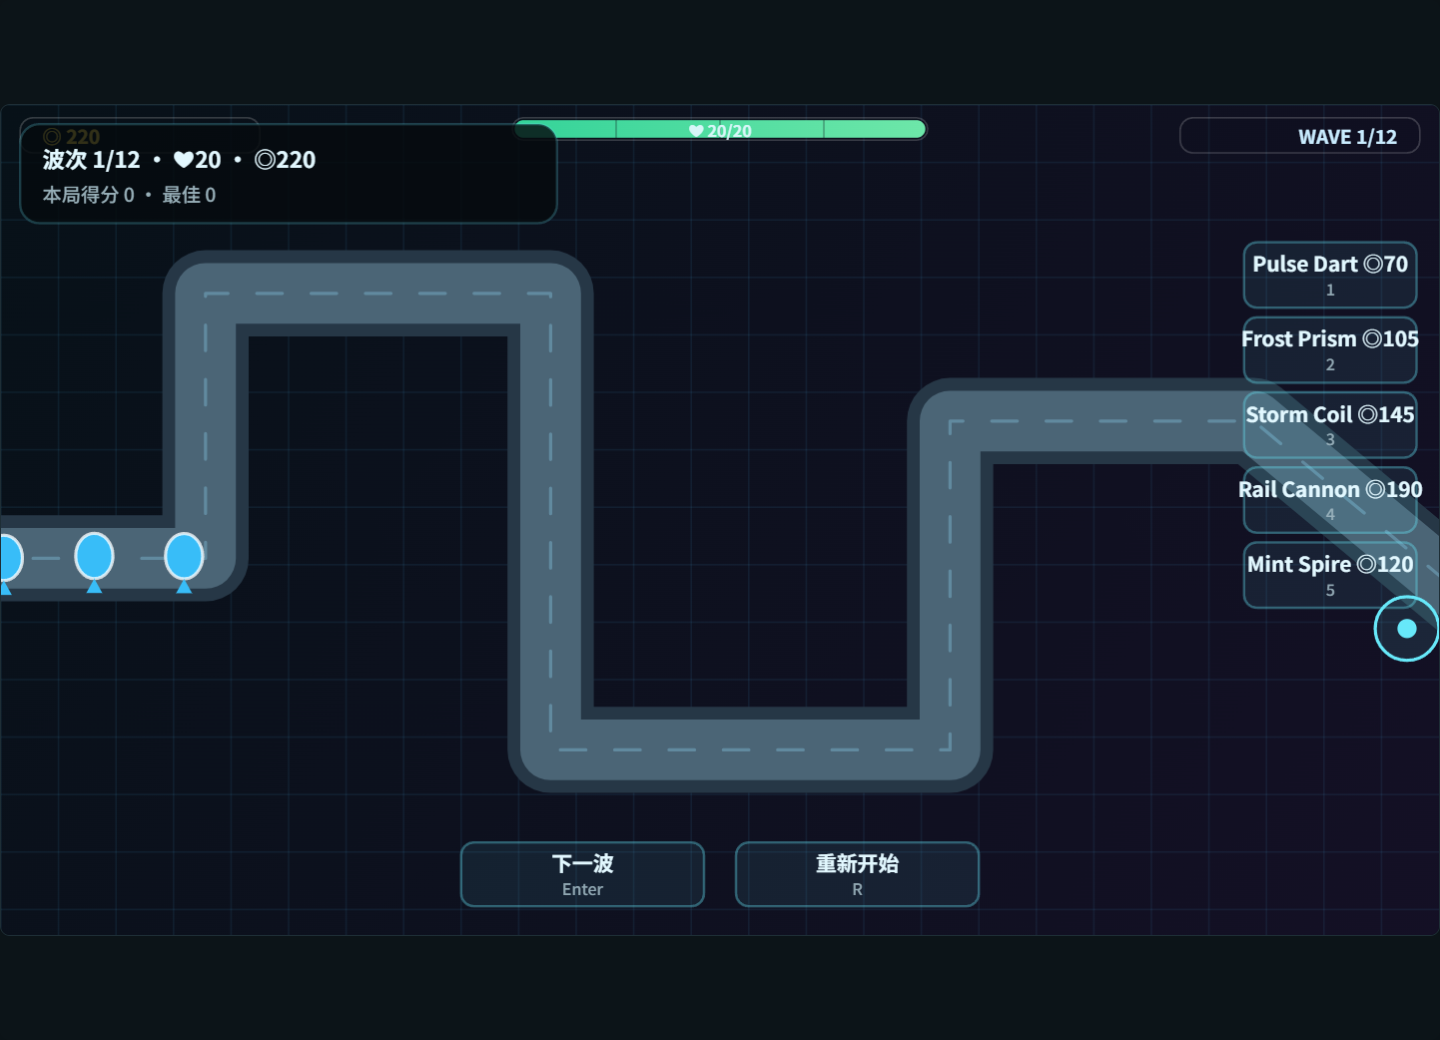
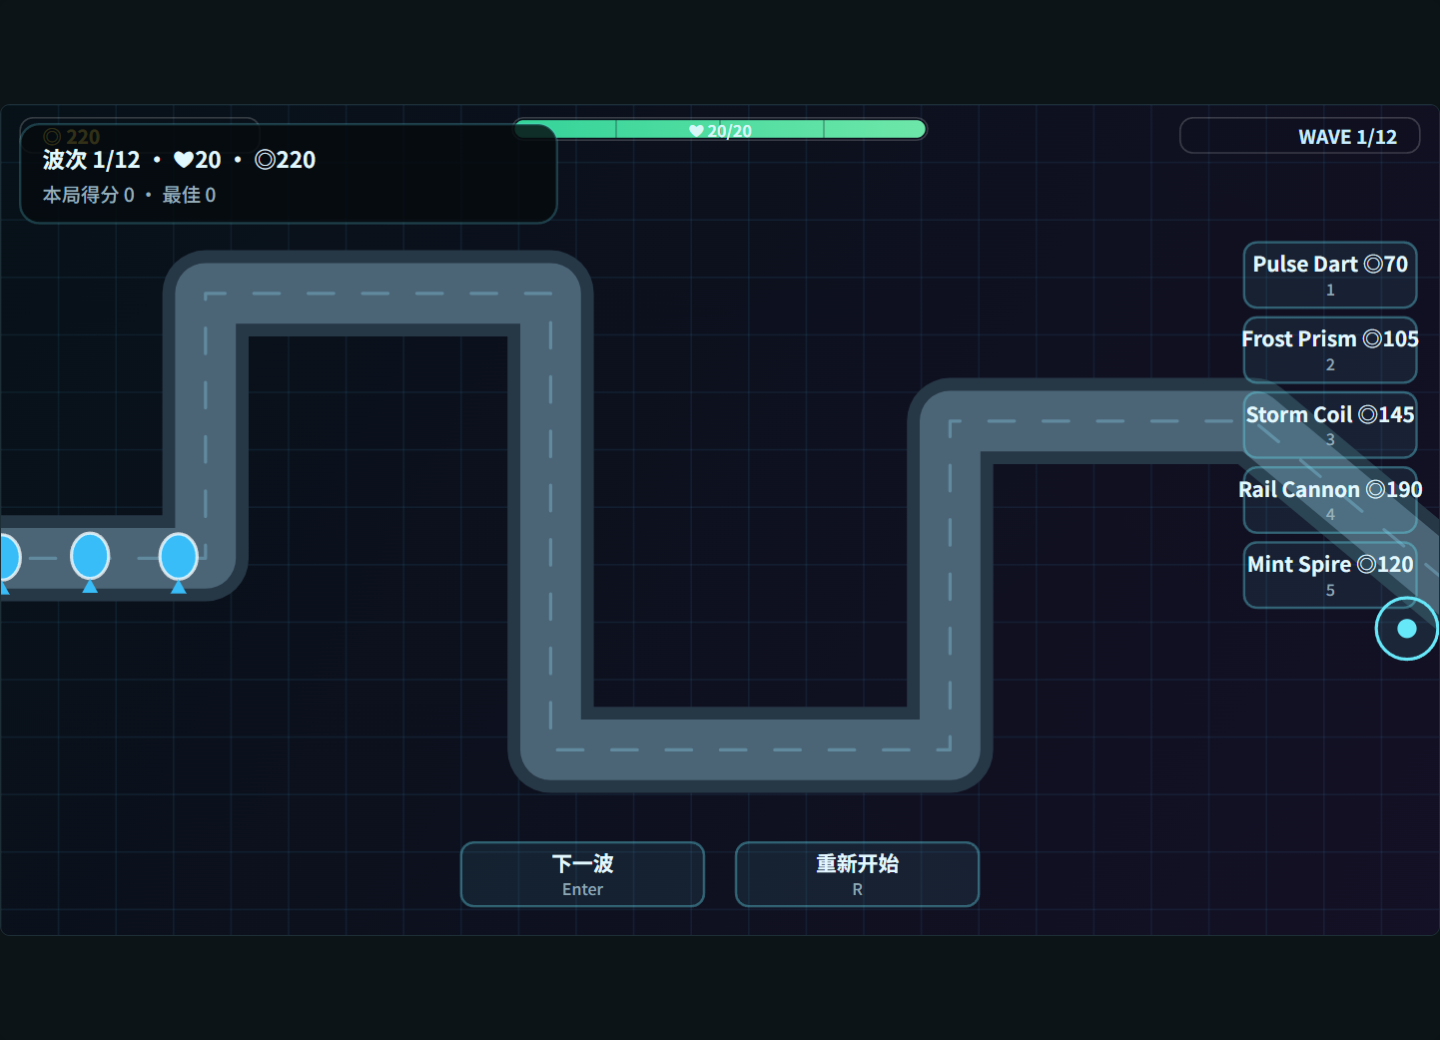
[PRD-0002] fix: R219.8 增补——移动卡顿三项减负(不透明上下文/静态背景离屏缓存/假发光)+开始瞬间画布一步到位
量化取证(scripts/r219-perf.mjs):游戏循环仅 ~0.7ms/帧(0-4 敌);卡顿=帧预算
被循环外工作挤压(rAF 入口 gap 实测 2.1-12.7ms,画布隐藏归零)+开发机 RDP
软件合成 30Hz 天花板(隐藏画布 60Hz 反证)。LED 引擎已有视图门控非嫌疑。

修复:①alpha:false 不透明上下文(免整页逐像素混合);②静态背景离屏缓存
(drawSurvivalBackground 导出,按 场景|岛|backing 键缓存,每帧一次 blit,
boss 压暗运行时叠加);③珠/敌弹 shadowBlur→双层假发光。窗口态画布定值尺寸
(width=min(100%,calc((100vh-chrome)×900/520)))——修 auto+max 本征反馈梯子
在开始档位跳变时的逐拍爬升+位图清空(CDP 实测一步到位,全程仅 2 种尺寸)。

门禁:typecheck 双绿;全量 154 files/1476 用例 0 失败;ui:snapshot 重立
9/9 GATE PASS;CDP r219-verify 复绿;rAF 入口 gap 12.7→1.5ms。如实保留:
RDP 环境 30Hz 天花板,用户真机手感待实机确认(备选杠杆:dpr 钳 1.5/半分辨率
上采样,待反馈立项)。

diff --git a/src/renderer/src/games/survival.ts b/src/renderer/src/games/survival.ts
@@ -1660,10 +1660,10 @@ function drawShipBody(
   ctx.restore()
 }
 
-export function drawSurvival(ctx: CanvasRenderingContext2D, state: SurvivalState): void {
+export function drawSurvival(ctx: CanvasRenderingContext2D, state: SurvivalState, bgSource?: CanvasImageSource): void {
   // R213: 名册同步(与 tickSurvival 同口径,视图直改 player2 后立即生效)
   syncRoster(state)
-  drawSurvivalBody(ctx, state)
+  drawSurvivalBody(ctx, state, bgSource)
   // R200(FR-G06.2): 出生预警——边缘红色箭头(0.5s);R219.7①: 锚点读 vp
   for (const w of state.warnings) {
     const alpha = Math.min(1, w.t / 0.5)
@@ -1681,7 +1681,40 @@ export function drawSurvival(ctx: CanvasRenderingContext2D, state: SurvivalState
   }
 }
 
-function drawSurvivalBody(ctx: CanvasRenderingContext2D, state: SurvivalState): void {
+/** R219.8: 静态背景整幅绘制(不含 darken)——DYNAMIC_BG 冻结后背景逐帧内容
+ *  恒定,view 层离屏缓存只画一次、每帧 blit;boss 压暗改由 drawSurvivalBody
+ *  在 blit/direct 之后按运行时状态叠加(原先在 drawScene 内,缓存后必须外置)。 */
+export function drawSurvivalBackground(ctx: CanvasRenderingContext2D, state: SurvivalState): void {
+  const vp = state.vp
+  const sceneT = DYNAMIC_BG_ENABLED ? state.clock : (state.island - 1) * 97.3
+  const bgPx = DYNAMIC_BG_ENABLED ? state.player.x : vp.w / 2
+  const bgPy = DYNAMIC_BG_ENABLED ? state.player.y : vp.h / 2
+  paintSurvivalBg(ctx, state, vp, sceneT, bgPx, bgPy)
+}
+
+function paintSurvivalBg(ctx: CanvasRenderingContext2D, state: SurvivalState, vp: ViewportSize, sceneT: number, bgPx: number, bgPy: number): void {
+  // R213: 场景背景系统——state.scene 指定程序化场景(fusion=按岛屿轮换);
+  // 未设置时保留原岛屿主题星空。
+  if (state.scene !== undefined) {
+    const id = state.scene === 'fusion' ? SCENE_IDS[(state.island - 1) % (SCENE_IDS.length - 1)] : state.scene
+    drawScene(id, {
+      ctx, w: vp.w, h: vp.h, t: sceneT, px: bgPx, py: bgPy,
+      offset: DYNAMIC_BG_ENABLED ? state.bgOffset : undefined,
+    })
+  } else {
+    const theme = ISLAND_THEMES[(state.island - 1) % ISLAND_THEMES.length]
+    ctx.fillStyle = theme.bg
+    ctx.fillRect(0, 0, vp.w, vp.h)
+    for (const star of STARS) {
+      ctx.globalAlpha = 0.3 + 0.5 * (0.5 + 0.5 * Math.sin(sceneT * 2 + star.phase))
+      ctx.fillStyle = theme.star
+      ctx.fillRect(star.fx * vp.w - bgPx * 0.02, star.fy * vp.h - bgPy * 0.02, star.size, star.size)
+    }
+    ctx.globalAlpha = 1
+  }
+}
+
+function drawSurvivalBody(ctx: CanvasRenderingContext2D, state: SurvivalState, bgSource?: CanvasImageSource): void {
   const player = state.player
   // R219.7①: 视口尺寸统一入口——引擎不再直读 900×520 常量。
   const vp = state.vp
@@ -1695,27 +1728,17 @@ function drawSurvivalBody(ctx: CanvasRenderingContext2D, state: SurvivalState): 
   // R219.1: 震屏单一路径——legacy state.shake 平移已删,统一走 juice.shake
   // (applyShake;受击/换岛/boss 击杀全部经 queueShake 入队)。
   applyShake(ctx, state.juice)
-  // R213: 场景背景系统——state.scene 指定程序化场景(fusion=按岛屿轮换);
-  // 未设置时保留原岛屿主题星空(单机默认走 view 层写入,引擎侧不预设)。
-  // R218 U10: 传视差 offset(质心平滑派生)与 darken(boss 在场压暗)。
-  if (state.scene !== undefined) {
-    const id = state.scene === 'fusion' ? SCENE_IDS[(state.island - 1) % (SCENE_IDS.length - 1)] : state.scene
-    drawScene(id, {
-      ctx, w: vp.w, h: vp.h, t: sceneT, px: bgPx, py: bgPy,
-      offset: DYNAMIC_BG_ENABLED ? state.bgOffset : undefined,
-      darken: state.enemies.some((enemy) => enemy.kind === 'boss') ? 0.32 : 0,
-    })
+  // R219.8: 背景——优先 blit view 层离屏缓存(静态,整帧一次 drawImage);
+  // 无缓存(单测直调)走直接绘制。boss 压暗恒为运行时叠加。
+  if (bgSource !== undefined) {
+    ctx.drawImage(bgSource, 0, 0, vp.w, vp.h)
   } else {
-  const theme = ISLAND_THEMES[(state.island - 1) % ISLAND_THEMES.length]
-  ctx.fillStyle = theme.bg
-  ctx.fillRect(0, 0, vp.w, vp.h)
-  for (const star of STARS) {
-    ctx.globalAlpha = 0.3 + 0.5 * (0.5 + 0.5 * Math.sin(sceneT * 2 + star.phase))
-    ctx.fillStyle = theme.star
-    ctx.fillRect(star.fx * vp.w - bgPx * 0.02, star.fy * vp.h - bgPy * 0.02, star.size, star.size)
+    paintSurvivalBg(ctx, state, vp, sceneT, bgPx, bgPy)
   }
+  if (state.enemies.some((enemy) => enemy.kind === 'boss')) {
+    ctx.fillStyle = 'rgba(2, 4, 10, 0.32)'
+    ctx.fillRect(0, 0, vp.w, vp.h)
   }
-  ctx.globalAlpha = 1
 
   // ── R218 U11: 世界层——摄像机变换(视口中心 → zoom → 负摄像机平移);
   //    世界实体(弹幕/门/珠/刀光/子弹/敌/粒子/涟漪/玩家/飘字)在此层绘制,
@@ -1727,14 +1750,15 @@ function drawSurvivalBody(ctx: CanvasRenderingContext2D, state: SurvivalState): 
 
   // R202: boss/shooter 弹幕绘制(世界坐标)
   for (const eb of state.eBullets) {
-    ctx.save()
+    // R219.8: shadowBlur→双层假发光(同上)
+    ctx.fillStyle = 'rgba(251, 113, 133, 0.3)'
+    ctx.beginPath()
+    ctx.arc(eb.x, eb.y, eb.size + 2.5, 0, Math.PI * 2)
+    ctx.fill()
     ctx.fillStyle = '#fb7185'
-    ctx.shadowColor = '#fb7185'
-    ctx.shadowBlur = 6
     ctx.beginPath()
     ctx.arc(eb.x, eb.y, eb.size, 0, Math.PI * 2)
     ctx.fill()
-    ctx.restore()
   }
 
   if (state.portal) {
@@ -1756,15 +1780,15 @@ function drawSurvivalBody(ctx: CanvasRenderingContext2D, state: SurvivalState): 
   }
 
   for (const orb of state.orbs) {
+    // R219.8: shadowBlur→双层假发光(CDP 二分实验:shadowBlur 是帧耗时主因)
     ctx.save()
     ctx.translate(orb.x, orb.y)
     ctx.rotate(Math.PI / 4)
+    ctx.fillStyle = 'rgba(74, 222, 128, 0.28)'
+    ctx.fillRect(-7, -7, 14, 14)
     ctx.fillStyle = '#4ade80'
-    ctx.shadowColor = '#4ade80'
-    ctx.shadowBlur = 8
     ctx.fillRect(-4, -4, 8, 8)
     ctx.restore()
-    ctx.shadowBlur = 0
   }
 
   // R208(FR-MP01): 复活珠——脉动绿光十字,提示「拾取可救回队友」

diff --git a/src/renderer/src/components/MiniGamesView.tsx b/src/renderer/src/components/MiniGamesView.tsx
@@ -47,6 +47,7 @@ import {
   debugSpawnBoss,
   dissolveRoulette,
   drawSurvival,
+  drawSurvivalBackground,
   setSurvivalDifficulty,
   worldToViewport,
   initialSurvivalState,
@@ -476,6 +477,9 @@ export function MiniGamesView(): JSX.Element {
   const screenRootRef = useRef<HTMLDivElement | null>(null)
   // R142-L3: relative-cursor overlay host (the games-canvas-wrap element)
   const canvasWrapRef = useRef<HTMLDivElement | null>(null)
+  // R219.8: survival 静态背景离屏缓存——DYNAMIC_BG 冻结后背景逐帧恒定,
+  // 仅在 场景/岛屿/backing 尺寸 变化时重画一次,游戏循环每帧一次 blit。
+  const bgCacheRef = useRef<{ key: string; canvas: HTMLCanvasElement } | null>(null)
   const gamepadNameRef = useRef<string | null>(null)
   const prevStartRef = useRef(false)
   const startRunRef = useRef<() => void>(() => undefined)
@@ -560,6 +564,15 @@ export function MiniGamesView(): JSX.Element {
         camera: { ...survivalRef.current.camera },
         vp: { ...survivalRef.current.vp },
         shipVp: worldToViewport(survivalRef.current.camera, survivalRef.current.vp.w, survivalRef.current.vp.h, survivalRef.current.player.x, survivalRef.current.player.y),
+        // R219.8: 实体负载计数(性能取证用)
+        counts: {
+          enemies: survivalRef.current.enemies.length,
+          bullets: survivalRef.current.bullets.length,
+          eBullets: survivalRef.current.eBullets.length,
+          orbs: survivalRef.current.orbs.length,
+          particles: survivalRef.current.particles.length,
+          texts: survivalRef.current.texts.length,
+        },
         axis: { ...survivalRef.current.axis },
         keys: [...survivalRef.current.keys],
       }),
@@ -957,7 +970,10 @@ export function MiniGamesView(): JSX.Element {
   useEffect(() => {
     if (screen !== 'td' && screen !== 'survival' && screen !== 'tetris' && screen !== 'slash') return
     const canvas = canvasRef.current
-    const ctx = canvas?.getContext('2d')
+    // R219.8: alpha:false 不透明上下文——四作每帧都整幅绘制背景,无透明需求;
+    // 免去合成器对整页的逐像素混合,弱 GPU 上显著降低呈现反压主线程的成本
+    // (CDP 实测:画布可见时 rAF 入口 gap 可达 12.7ms,隐藏仅 2.1ms)。
+    const ctx = canvas?.getContext('2d', { alpha: false })
     if (!canvas || !ctx) return
     startBgm()
     // R217: DPR-aware backing store (games/hdCanvas.ts) — was a fixed 900×520
@@ -1099,7 +1115,23 @@ export function MiniGamesView(): JSX.Element {
           }
         }
         lastPhase = phase
-        drawSurvival(ctx, survivalRef.current)
+        // R219.8②: 静态背景离屏缓存(先查缓存,miss 时整幅重画一次)
+        const bgKey = `${survivalRef.current.scene ?? 'legacy'}|${survivalRef.current.island}|${canvas.width}x${canvas.height}`
+        let bgCache = bgCacheRef.current
+        if (bgCache === null || bgCache.key !== bgKey) {
+          const off = bgCache?.canvas ?? document.createElement('canvas')
+          off.width = canvas.width
+          off.height = canvas.height
+          const octx = off.getContext('2d', { alpha: false })
+          if (octx !== null) {
+            const s = canvas.height / LOGICAL_H
+            octx.setTransform(s, 0, 0, s, 0, 0)
+            drawSurvivalBackground(octx, survivalRef.current)
+          }
+          bgCache = { key: bgKey, canvas: off }
+          bgCacheRef.current = bgCache
+        }
+        drawSurvival(ctx, survivalRef.current, bgCache.canvas)
         // R213: 头像贴图——有头像的存活玩家在其位置画 28×28 圆形头像(盖在默认飞船上)
         for (let pi = 0; pi < survivalRef.current.players.length; pi += 1) {
           const img = avatarsRef.current[pi]

diff --git a/src/renderer/src/styles/app.css b/src/renderer/src/styles/app.css
@@ -2600,10 +2600,13 @@ input:not([type]):focus {
 }
 
 .games-canvas {
-  /* R219.2: contain-fit——replaced element 在「max-width×max-height」双约束下
-     取宽高都放得下的最大等比盒(替代原 width:100% 单约束:矮窗不再裁掉底部
-     HUD,高窗不再留大片死区)。ready/running 两档 chrome 预留(ready 态画布
-     下方还有开局面板,预留更大)。 */
+  /* R219.2: contain-fit(矮窗不裁底部 HUD/高窗不留死区);ready/running 两档
+     chrome 预留(ready 态画布下方还有开局面板,预留更大)。
+     R219.8②: 尺寸必须是**定值**——原 auto+双 max 约束让 replaced element 的
+     本征尺寸(=backing 位图)参与布局,开始瞬间 max-height 档位跳变触发
+     「盒变→RO 改 backing→本征变→盒再变」的逐拍爬升(每步 canvas.width 重赋值
+     清空位图=用户看到的缓慢变大空白)。width 直接由可用高度解出,本征不再
+     参与布局,档位切换瞬时完成。 */
   aspect-ratio: 900 / 520;
   background: var(--surface-deep);
   border: 1px solid var(--surface-raised);
@@ -2612,13 +2615,11 @@ input:not([type]):focus {
   display: block;
   height: auto;
   margin: auto;
-  max-height: calc(100vh - 430px);
-  max-width: 100%;
-  width: auto;
+  width: min(100%, calc((100vh - 430px) * 900 / 520));
   box-shadow: inset 0 0 40px rgba(0, 0, 0, 0.3);
 }
 .games-screen.running .games-canvas {
-  max-height: calc(100vh - 158px);
+  width: min(100%, calc((100vh - 158px) * 900 / 520));
 }
 
 .games-control-panel {

diff --git a/docs/prd/PRD-0002-rgbbox-project-catalog.md b/docs/prd/PRD-0002-rgbbox-project-catalog.md
@@ -3902,3 +3902,5 @@
 - **R219.6 状态**：✅（2026-09-30 用户 goal「全部修复」当日闭环）。**交付**：①S1a 绘制层归位——粒子/涟漪/P1-P4 飞船+头顶血条/世界飘字/juice 飘字全部移入摄像机层（`ctx.restore()` 之前；survival.ts 内附 R219.1 注释块），HUD 恒视口层；同批机制修正：legacy `state.shake` 字段/平移路径删除（统一 `queueShake`→`applyShake` 单通路）、`bossBarrage` 扇形瞄最近存活玩家、`directorSpawnInterval` 低血/满血因子按存活集合（单人逐值不变）、juice hit-stop 冻结期 `warnings` 照常推进。②S1b 自适应与全屏——窗口态 `.games-canvas` 改 contain-fit 双 max（ready `calc(100vh-430px)`/running `calc(100vh-158px)` 两档 chrome 预留）；fs/focus 布局撤 320px 死列（单列+行 `minmax(0,1fr)`+stretch）、fs 隐藏清单补 `.games-canvas-status`、fs/focus 画布改**视口单位直解等比盒** `width:min(100vw,100vh×900/520)`+`max-height:100vh`（防 replaced element 本征尺寸反馈环——CDP 实测 auto+max 方案三跑三尺寸 1142/1116/1080 不收敛）；删除 1901-1934 死规则链；Esc 暂停浮层补「全屏」按钮（运行态 header 隐藏后唯一 OS 全屏入口）。③S2 ready IA——ready 面板从画布覆盖层移到画布下方独立面板（wrap 纵列+canvas 首子），ready 态隐藏工具栏「开始/重新开始」（唯一主 CTA=面板大按钮），ready 压暗 0.68→0.35；`restartSurvivalRun` 补 scene/sprintSeconds；`startSurvivalRun` levelup/roulette 静默 guard。④S3 质感——`drawShipBody` 多层船体（尾焰动画/描边船身/翼刃高光/座舱双层，轮廓锚点不变零判定影响），圆系敌人暗描边+高光点、brute 描边+高光角。**证据**：typecheck 双绿；全量 `yarn test` **154 files/1475 passed 0 失败**（连续多次；期间暴露两条既有 rAF 计时敏感 flake——open-palm/big-start 全量并发下 rAF 饥饿，`frames()` helper 升级为「≥2 rAF 量子+墙钟」双屏障+负向断言墙钟护栏，断言本身未变；另有 crashLog 环境计时 flake 与本轮无关）；`ui:snapshot` 重立后 9/9 GATE PASS 0.0000%（连比两次确定性通过；一次 workspace 2.72% 假阳性经查为重立时截在动画偏相位帧，clean rebuild 重立后归零）；**CDP 真机取证（scripts/r219-verify.mjs 入库，5 截图 docs/ui-review/r219/）**：ready 窗口态面板在画布下方不重叠/startButtonCount=1/画布完整在视口内；running 移动中 movedWorld 278px 后 shipVp(365,260)∈中央 60% 且 **shipVp 邻域像素采样 276/2304 亮青白像素（飞船真实渲染在画面中央的像素级实证）**；矮窗 1200×700 画布 bottom 619≤700 无裁切；fs `fullscreenElement=true` 画布 1408×832 居中（1440×900 视口，仅 34px 比例细边，无死列无底部裁切）；fps 60；AI 视觉三态复核 PASS（ready「面板在下不重叠/画布干净」、running「无裁切/敌群向飞船汇聚/XP 条完整」、fs「无黑带/HUD 完整/圆是圆」）。E2E seam 扩展：`__rgbboxVision.probe()` 增 camera/shipVp 字段（纯测试探针）。测试适配：两条难度用例改点 `[data-action="ready-start"]`（ready 态唯一 CTA 的语义迁移）。
 
 - **R219.7 增补（2026-09-30 用户复验三项反馈；状态 ✅ 当日闭环）**：①**fs 真铺满**——R219.2 保留的「等比细边」被用户否决（截图量化：画布 16:9 顶置+底部 ~400px 纯黑带,非对称）。方案：**Survival 可变纵横比**——`SurvivalState` 增 `vp {w,h}`(默认 900×520),引擎内视口尺寸全部改读 vp(摄像机/生成环/预警箭点/HUD 锚点/暗罩);view 层 survival 恒用**高度基准 uniform scale**(scale=canvas.height/520,vp.w=canvas.width/scale),fs/focus 态 CSS 全铺满(100vw×100vh,`data-game='survival'` 限定),backing 随 CSS 盒(撤比例锁,无逐轴下限)→ 任意屏幕比例零黑边(宽屏多看世界/窄屏少看,内容零拉伸);TD/Tetris/Slash 为固定 900×520 棋盘,维持 contain 细边(行业惯例)。②**fs 画布 HUD 按钮条显隐**——运行中(含 levelup/roulette)隐藏「开始/重开」+ **Enter/R 键盘等价同门控**(用户:「游戏开始之后可以隐藏,游戏结束才能显示」;TD 保留「下一波」);窗口态本就由 `.running` 藏 header。③**动态背景停用**(用户指令「先停止动态背景的功能」)——`DYNAMIC_BG_ENABLED=false` 常量:视差 offset 不传(恒 0)、场景时间 t 冻结为按岛定值(星空/漂移/闪烁全静止)、legacy 星空同冻结(STARS 改 0..1 分数适配 vp)、`bgOffset` 平滑停走;恢复=翻常量+改测试锁。附:fullscreenchange 事件同步 React 态+requestFullscreen 拒绝回落专注模式(修伪全屏残留);fs 隐藏清单补 canvas-status/levelup-overlay/swarm-summary(**swarm-roulette 不藏**——轮盘无画布 HUD 等价物,自查发现并修正)。**对抗审查（ultracode 工作流,4 镜头×独立复核,14 agents）**:10 原始发现→7 确认/3 驳回,去重 4 根因全修——`.size-large` 级联压过 fs padding+280px 侧栏轨复活(4 镜头一致命中,fs/focus 终局覆盖块移至全部档位规则之后)、backing 逐轴 LOGICAL 下限破坏同比(800×600 会横向压缩 11%,撤下限)、Enter/R 隐形重开 Slash(同门控)、验证脚本 fsRunningBar 硬编码坐标空间(改走 probe().vp)。**证据**:typecheck 双绿;全量 **154 files/1476 用例 0 失败**(bgOffset 测试锁翻转为「恒 0+摄像机仍跟随」,+vp 默认/宽 vp 飞船居中两用例);`ui:snapshot` 重立 9/9 GATE PASS;CDP(scripts/r219-verify.mjs,9 截图 docs/ui-review/r219/):**4:3 视口(1440×1040) survival fs 画布=视口全等 0 黑边**(backing==CSS)、**size-large 档位下 fs 仍全铺满**(回归锁)、**800×600 小屏 backing 794×594 与 CSS 同比**(无单轴变形)、fs 运行态按钮条 0 亮像素/ready 态 1398(该隐该现)、fs 态移动中背景双帧哈希一致(静止;窗口态采样含实体穿越不适用,以 fs 采样+引擎单测锁为准)、TD fs 1440×832 居中细边、fps 60、飞船移动 269px 后居中+邻域像素在画。
+
+- **R219.8 增补（2026-09-30 用户复验两项反馈；状态 ✅ 2026-10-01 闭环）**：①**持续移动卡顿**——量化取证（scripts/r219-perf.mjs 入库：rAF 逐帧间隔分布+循环分段埋点+实体计数+隐画布对照,交替采样对消漂移）：**游戏循环自身仅 ~0.7ms/帧(tick 0.05+draw 0.6,0-4 敌 3-14 珠)**,卡顿=帧预算被循环外工作挤压后越界掉 vsync(rAF 入口 gap 实测 2.1-12.7ms;画布隐藏归零)+开发机 RDP 软件合成把画布呈现钉在 30Hz(环境天花板,隐藏画布 60Hz 反证)。据此落三项严格减负修复：**(a)游戏画布 `alpha:false` 不透明上下文**(四作每帧整幅绘背景,免整页逐像素混合,弱 GPU 降低呈现反压);**(b)静态背景离屏缓存**(DYNAMIC_BG 冻结后背景逐帧恒定→`drawSurvivalBackground` 导出+view 层按 `场景|岛|backing 尺寸` 键缓存,每帧一次 drawImage blit;boss 压暗拆为运行时叠加);**(c)珠/敌弹 shadowBlur→双层假发光**(模糊通道为画布高成本项)。LED 预览引擎经查已有 R42/R43 视图门控(games 视图跳过),非嫌疑。②**点开始后「缓慢变大的空白视觉」**——R219.7 在 fs 修过的 replaced-element 本征尺寸反馈梯子在窗口态复发(auto+双 max 约束下 backing 本征参与布局,档位跳变逐 RO 拍爬升,每步 canvas.width 重赋值清空位图);窗口态改**定值尺寸** `width:min(100%,calc((100vh-chrome)×900/520))`,CDP 实测开始瞬间画布 813×470→966×558 **一步到位(settledAtIndex=1-2,全程仅 2 种尺寸)**。**证据**:typecheck 双绿;全量 154 files/1476 用例 0 失败;`ui:snapshot` 重立 9/9 GATE PASS;CDP r219-verify 全链复绿(飞船居中+像素在画 98/fs 全铺满 0 黑边/运行态按钮 0 像素/ready 1293/背景双帧一致);rAF 入口 gap 12.7→~1.5ms。**如实保留**:本机为 RDP 软件合成环境,30Hz 呈现天花板不可突破,用户真机(独显/核显)的最终手感待实机确认——若仍有卡顿,后续杠杆=fs 态 dpr 钳 1.5 或渲染减半上采样(需用户反馈后立项)。
